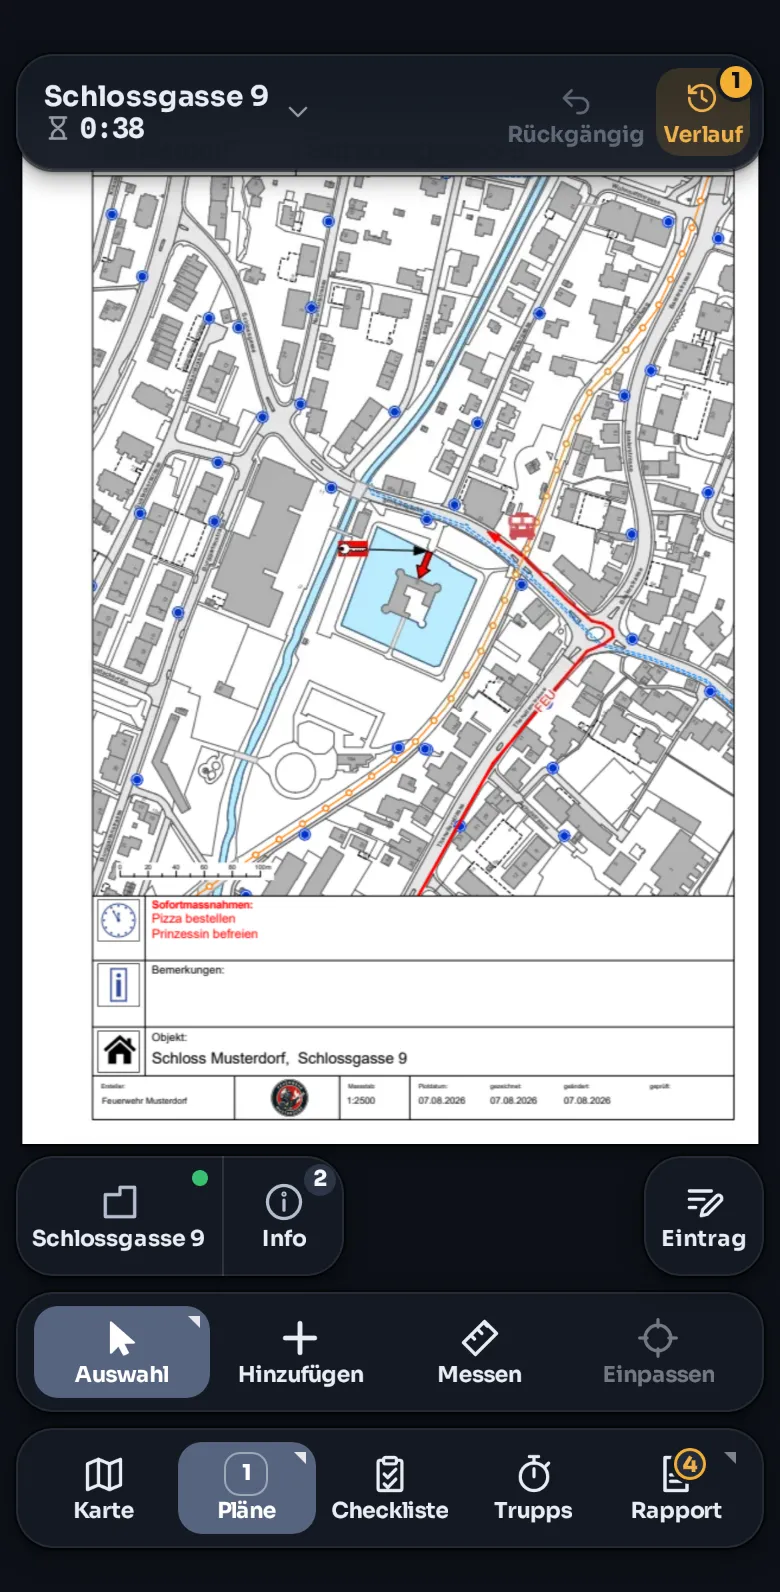
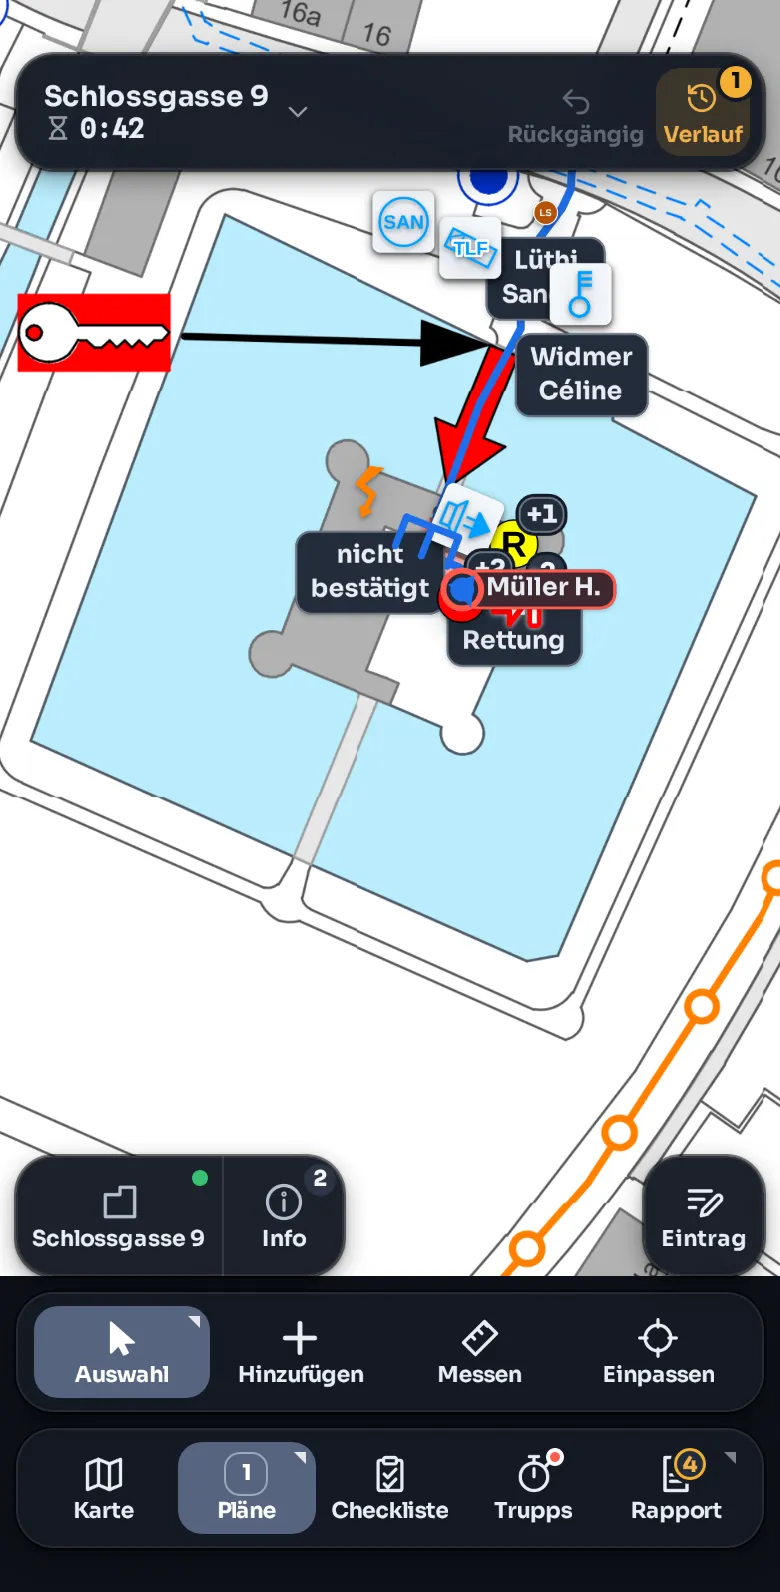
feat(demo): georeference the Schloss's Modul 1 so the plan carries the Karte's symbols
The landing page's «Ein Plan zum Draufzeichnen» showed an empty Modul 1 sheet.
The demo now seeds the sheet's georeference with the station plan calibration
(DEMO_PLAN_SCALES.georefByPlan, keyed by the Schloss's manifest id), so the
running Einsatz binds it on first open and every symbol on the Karte also
stands on the plan – the feature itself, on the demo's front page.

The four pairs are the moat's corners, read off the rendered sheet and off the
demo map, with the map's screen-to-WGS84 transform taken from markers at the
seed's known coordinates (residual 0.1 m): north-up within 0.2°, corners
within 1 m, scale within 2 % of the printed 1:2500. A test pins the key to an
object and module the manifest ships.

Landing page: chapter 3 shows that plan on iPad and iPhone, zoomed on the
castle; one bullet says it is georeferenced; a fourth Betrieb card says crew,
vehicles, plans, checklists and map layers are set up in your own admin area.

diff --git a/site/fr/index.html b/site/fr/index.html
@@ -511,23 +511,23 @@
         <p>Ouvrir le plan d’intervention, dessiner dessus, y placer les équipes, mesurer à l’échelle – avec les mêmes outils que sur la carte. La pile d’étages montre quelle équipe travaille à quel étage.</p>
         <ul class="checks">
           <li>Plans d’objet et d’intervention de votre propre corps</li>
+          <li>Géoréférencé : ce qui est sur la carte est aussi sur le plan</li>
           <li>Pile d’étages avec les équipes par étage</li>
-          <li>Points de mesure avec valeurs de gaz par pièce</li>
         </ul>
       </div>
       <div class="chap-img">
         <div class="dev dev-tab wide-only">
           <picture>
-          <source data-theme-dark media="(prefers-color-scheme: dark)" srcset="../shots/dark/tablet/gebaeude.webp">
+          <source data-theme-dark media="(prefers-color-scheme: dark)" srcset="../shots/dark/tablet/plan.webp">
           <script>document.currentScript.previousElementSibling.media = document.documentElement.dataset.theme === 'dark' ? 'all' : 'not all';</script>
-          <img src="../shots/tablet/gebaeude.webp" alt="Pile d’étages avec les équipes par étage ; sur le téléphone, le plan d’objet" width="1600" height="1090" loading="lazy" decoding="async">
+          <img src="../shots/tablet/plan.webp" alt="Plan d’objet (module 1) : les signes de la carte de situation figurent aussi sur le plan" width="1600" height="1090" loading="lazy" decoding="async">
         </picture>
         </div>
         <div class="dev dev-ph narrow-only">
           <picture>
           <source data-theme-dark media="(prefers-color-scheme: dark)" srcset="../shots/dark/phone/plan.webp">
           <script>document.currentScript.previousElementSibling.media = document.documentElement.dataset.theme === 'dark' ? 'all' : 'not all';</script>
-          <img src="../shots/phone/plan.webp" alt="Pile d’étages avec les équipes par étage ; sur le téléphone, le plan d’objet" width="780" height="1592" loading="lazy" decoding="async">
+          <img src="../shots/phone/plan.webp" alt="Plan d’objet (module 1) : les signes de la carte de situation figurent aussi sur le plan" width="780" height="1592" loading="lazy" decoding="async">
         </picture>
         </div>
       </div>
@@ -601,6 +601,10 @@
       <div class="own-card">
         <h3>Sans dépendance</h3>
         <p>Tout le code est ouvert : l’exploiter, l’adapter, le faire évoluer vous-mêmes.</p>
+      </div>
+      <div class="own-card">
+        <h3>Adapté à vous</h3>
+        <p>Votre effectif, vos véhicules, plans, check-lists et couches de carte se configurent dans votre propre espace d’administration – sans programmer.</p>
       </div>
     </div>
     <p class="own-link"><a href="https://github.com/feuerwehr-oberwil/kp-front/blob/main/docs/SETUP.md" target="_blank" rel="noopener">Guide pour l’exploiter vous-mêmes →</a></p>

diff --git a/site/rm/index.html b/site/rm/index.html
@@ -511,23 +511,23 @@
         <p>Avrir il plan d’acziun, dissegnar sin quel, plazzar gruppas e mesirar tenor scala – cun ils medems instruments sco sin la charta. La pigna da plauns mussa tge gruppa che lavura sin tge plaun.</p>
         <ul class="checks">
           <li>Plans d’object e d’acziun da voss corps da pumpiers</li>
+          <li>Georeferenzià: tge che stat sin la charta, stat er sin il plan</li>
           <li>Pigna da plauns cun las gruppas per plaun</li>
-          <li>Puncts da mesiraziun cun valurs da gas per stanza</li>
         </ul>
       </div>
       <div class="chap-img">
         <div class="dev dev-tab wide-only">
           <picture>
-          <source data-theme-dark media="(prefers-color-scheme: dark)" srcset="../shots/dark/tablet/gebaeude.webp">
+          <source data-theme-dark media="(prefers-color-scheme: dark)" srcset="../shots/dark/tablet/plan.webp">
           <script>document.currentScript.previousElementSibling.media = document.documentElement.dataset.theme === 'dark' ? 'all' : 'not all';</script>
-          <img src="../shots/tablet/gebaeude.webp" alt="Pigna da plauns cun las gruppas per plaun; sin il telefonin il plan d’object" width="1600" height="1090" loading="lazy" decoding="async">
+          <img src="../shots/tablet/plan.webp" alt="Plan d’object (modul 1): ils segns da la charta da situaziun stattan er sin il plan" width="1600" height="1090" loading="lazy" decoding="async">
         </picture>
         </div>
         <div class="dev dev-ph narrow-only">
           <picture>
           <source data-theme-dark media="(prefers-color-scheme: dark)" srcset="../shots/dark/phone/plan.webp">
           <script>document.currentScript.previousElementSibling.media = document.documentElement.dataset.theme === 'dark' ? 'all' : 'not all';</script>
-          <img src="../shots/phone/plan.webp" alt="Pigna da plauns cun las gruppas per plaun; sin il telefonin il plan d’object" width="780" height="1592" loading="lazy" decoding="async">
+          <img src="../shots/phone/plan.webp" alt="Plan d’object (modul 1): ils segns da la charta da situaziun stattan er sin il plan" width="780" height="1592" loading="lazy" decoding="async">
         </picture>
         </div>
       </div>
@@ -601,6 +601,10 @@
       <div class="own-card">
         <h3>Senza dependenza</h3>
         <p>L’entir code è avert: manar, adattar e sviluppar vinavant sezs.</p>
+      </div>
+      <div class="own-card">
+        <h3>Fatg per vus</h3>
+        <p>Voss persunal, vehichels, plans, glistas da controlla e nivels da charta endrizzais vus en voss agen champ d’administraziun – senza programmar.</p>
       </div>
     </div>
     <p class="own-link"><a href="https://github.com/feuerwehr-oberwil/kp-front/blob/main/docs/SETUP.md" target="_blank" rel="noopener">Instrucziun per manar sez →</a></p>

diff --git a/site/it/index.html b/site/it/index.html
@@ -511,23 +511,23 @@
         <p>Aprire il piano d’intervento, disegnarci sopra, posizionare le squadre, misurare in scala – con gli stessi strumenti della carta. La pila dei piani mostra quale squadra lavora a quale piano.</p>
         <ul class="checks">
           <li>Piani d’oggetto e d’intervento del proprio corpo</li>
+          <li>Georeferenziato: ciò che sta sulla carta sta anche sul piano</li>
           <li>Pila dei piani con le squadre per piano</li>
-          <li>Punti di misura con valori dei gas per locale</li>
         </ul>
       </div>
       <div class="chap-img">
         <div class="dev dev-tab wide-only">
           <picture>
-          <source data-theme-dark media="(prefers-color-scheme: dark)" srcset="../shots/dark/tablet/gebaeude.webp">
+          <source data-theme-dark media="(prefers-color-scheme: dark)" srcset="../shots/dark/tablet/plan.webp">
           <script>document.currentScript.previousElementSibling.media = document.documentElement.dataset.theme === 'dark' ? 'all' : 'not all';</script>
-          <img src="../shots/tablet/gebaeude.webp" alt="Pila dei piani con le squadre per piano; sul telefono il piano d’oggetto" width="1600" height="1090" loading="lazy" decoding="async">
+          <img src="../shots/tablet/plan.webp" alt="Piano d’oggetto (modulo 1): i simboli della carta della situazione stanno anche sul piano" width="1600" height="1090" loading="lazy" decoding="async">
         </picture>
         </div>
         <div class="dev dev-ph narrow-only">
           <picture>
           <source data-theme-dark media="(prefers-color-scheme: dark)" srcset="../shots/dark/phone/plan.webp">
           <script>document.currentScript.previousElementSibling.media = document.documentElement.dataset.theme === 'dark' ? 'all' : 'not all';</script>
-          <img src="../shots/phone/plan.webp" alt="Pila dei piani con le squadre per piano; sul telefono il piano d’oggetto" width="780" height="1592" loading="lazy" decoding="async">
+          <img src="../shots/phone/plan.webp" alt="Piano d’oggetto (modulo 1): i simboli della carta della situazione stanno anche sul piano" width="780" height="1592" loading="lazy" decoding="async">
         </picture>
         </div>
       </div>
@@ -601,6 +601,10 @@
       <div class="own-card">
         <h3>Senza vincoli</h3>
         <p>Tutto il codice è aperto: gestirlo, adattarlo, svilupparlo da voi.</p>
+      </div>
+      <div class="own-card">
+        <h3>Su misura per voi</h3>
+        <p>Uomini, veicoli, piani, liste di controllo e livelli della carta si configurano nella vostra area di amministrazione – senza programmare.</p>
       </div>
     </div>
     <p class="own-link"><a href="https://github.com/feuerwehr-oberwil/kp-front/blob/main/docs/SETUP.md" target="_blank" rel="noopener">Guida per gestirlo da voi →</a></p>

diff --git a/site/index.html b/site/index.html
@@ -507,23 +507,23 @@
         <p>Einsatzplan öffnen, drauf zeichnen, Trupps platzieren, massstabsgetreu messen – mit denselben Werkzeugen wie auf der Karte. Im Geschossstapel seht ihr, welcher Trupp auf welchem Stock arbeitet.</p>
         <ul class="checks">
           <li>Objekt- und Einsatzpläne der eigenen Feuerwehr</li>
+          <li>Georeferenziert: was auf der Karte steht, steht auch auf dem Plan</li>
           <li>Geschossstapel mit Trupps pro Stock</li>
-          <li>Messpunkte mit Gaswerten pro Raum</li>
         </ul>
       </div>
       <div class="chap-img">
         <div class="dev dev-tab wide-only">
           <picture>
-          <source data-theme-dark media="(prefers-color-scheme: dark)" srcset="shots/dark/tablet/gebaeude.webp">
+          <source data-theme-dark media="(prefers-color-scheme: dark)" srcset="shots/dark/tablet/plan.webp">
           <script>document.currentScript.previousElementSibling.media = document.documentElement.dataset.theme === 'dark' ? 'all' : 'not all';</script>
-          <img src="shots/tablet/gebaeude.webp" alt="Geschossstapel mit den Trupps pro Stockwerk; auf dem Handy der Objektplan" width="1600" height="1090" loading="lazy" decoding="async">
+          <img src="shots/tablet/plan.webp" alt="Objektplan Modul 1: die Zeichen der Lagekarte stehen auch auf dem Plan" width="1600" height="1090" loading="lazy" decoding="async">
         </picture>
         </div>
         <div class="dev dev-ph narrow-only">
           <picture>
           <source data-theme-dark media="(prefers-color-scheme: dark)" srcset="shots/dark/phone/plan.webp">
           <script>document.currentScript.previousElementSibling.media = document.documentElement.dataset.theme === 'dark' ? 'all' : 'not all';</script>
-          <img src="shots/phone/plan.webp" alt="Geschossstapel mit den Trupps pro Stockwerk; auf dem Handy der Objektplan" width="780" height="1592" loading="lazy" decoding="async">
+          <img src="shots/phone/plan.webp" alt="Objektplan Modul 1: die Zeichen der Lagekarte stehen auch auf dem Plan" width="780" height="1592" loading="lazy" decoding="async">
         </picture>
         </div>
       </div>
@@ -597,6 +597,10 @@
       <div class="own-card">
         <h3>Ohne Bindung</h3>
         <p>Der ganze Code liegt offen: selbst betreiben, selbst anpassen, selbst weiterentwickeln.</p>
+      </div>
+      <div class="own-card">
+        <h3>Auf euch zugeschnitten</h3>
+        <p>Eure Mannschaft, Fahrzeuge, Pläne, Checklisten und Karten-Ebenen richtet ihr im eigenen Verwaltungsbereich ein – ohne Programmieren.</p>
       </div>
     </div>
     <p class="own-link"><a href="https://github.com/feuerwehr-oberwil/kp-front/blob/main/docs/SETUP.md" target="_blank" rel="noopener">Anleitung zum Selbstbetreiben →</a></p>

diff --git a/site/en/index.html b/site/en/index.html
@@ -508,23 +508,23 @@
         <p>Open the pre-incident plan, draw on it, place teams, measure to scale – with the same tools as on the map. The floor stack shows which team works on which storey.</p>
         <ul class="checks">
           <li>Building and pre-incident plans of your own brigade</li>
+          <li>Georeferenced: what is on the map is on the plan too</li>
           <li>Floor stack with the teams per storey</li>
-          <li>Measuring points with gas readings per room</li>
         </ul>
       </div>
       <div class="chap-img">
         <div class="dev dev-tab wide-only">
           <picture>
-          <source data-theme-dark media="(prefers-color-scheme: dark)" srcset="../shots/dark/tablet/gebaeude.webp">
+          <source data-theme-dark media="(prefers-color-scheme: dark)" srcset="../shots/dark/tablet/plan.webp">
           <script>document.currentScript.previousElementSibling.media = document.documentElement.dataset.theme === 'dark' ? 'all' : 'not all';</script>
-          <img src="../shots/tablet/gebaeude.webp" alt="Floor stack with the teams per storey; on the phone, the building plan" width="1600" height="1090" loading="lazy" decoding="async">
+          <img src="../shots/tablet/plan.webp" alt="Building plan (Modul 1): the situation map’s symbols stand on the plan too" width="1600" height="1090" loading="lazy" decoding="async">
         </picture>
         </div>
         <div class="dev dev-ph narrow-only">
           <picture>
           <source data-theme-dark media="(prefers-color-scheme: dark)" srcset="../shots/dark/phone/plan.webp">
           <script>document.currentScript.previousElementSibling.media = document.documentElement.dataset.theme === 'dark' ? 'all' : 'not all';</script>
-          <img src="../shots/phone/plan.webp" alt="Floor stack with the teams per storey; on the phone, the building plan" width="780" height="1592" loading="lazy" decoding="async">
+          <img src="../shots/phone/plan.webp" alt="Building plan (Modul 1): the situation map’s symbols stand on the plan too" width="780" height="1592" loading="lazy" decoding="async">
         </picture>
         </div>
       </div>
@@ -598,6 +598,10 @@
       <div class="own-card">
         <h3>No lock-in</h3>
         <p>All of the code is open: run it, adapt it, develop it further yourself.</p>
+      </div>
+      <div class="own-card">
+        <h3>Made to fit you</h3>
+        <p>Your crew, vehicles, plans, checklists and map layers are set up in your own admin area – no programming needed.</p>
       </div>
     </div>
     <p class="own-link"><a href="https://github.com/feuerwehr-oberwil/kp-front/blob/main/docs/SETUP.md" target="_blank" rel="noopener">Guide to running it yourself →</a></p>

diff --git a/site/landing.css b/site/landing.css
@@ -885,7 +885,7 @@ section.chap:nth-of-type(even) .chap-txt { order: 2; }
 }
 
 /* Betrieb: three short answers to «what does it cost, where does it run, are we bound?». */
-.own { display: grid; grid-template-columns: repeat(3, 1fr); gap: 16px; margin-top: 28px; }
+.own { display: grid; grid-template-columns: repeat(4, 1fr); gap: 16px; margin-top: 28px; }
 .own-card {
   background: var(--surface); border: 1px solid var(--line); border-radius: var(--r-surface);
   padding: 20px 22px;
@@ -942,7 +942,8 @@ details.way form { margin-top: 6px; padding-left: 58px; max-width: 640px; }
   section.chap, .chap:not(:has(.dev-tab)) { grid-template-columns: 1fr; gap: 28px; padding-top: 56px; padding-bottom: 56px; }
   section.chap:nth-of-type(even) .chap-txt { order: 0; }
   .chap .dev-ph { max-width: 260px; }
-  .own, .ways { grid-template-columns: 1fr; }
+  .own { grid-template-columns: 1fr 1fr; }
+  .ways { grid-template-columns: 1fr; }
   details.way[open] { order: 0; }
   details.way form { padding-left: 0; }
   .split { grid-template-columns: 1fr; gap: 20px; }
@@ -957,4 +958,5 @@ details.way form { margin-top: 6px; padding-left: 58px; max-width: 640px; }
   .wide-only { display: none; }
   .narrow-only { display: block; }
   .sib { flex-direction: column; align-items: flex-start; }
+  .own { grid-template-columns: 1fr; }
 }

diff --git a/backend/app/demo_reset.py b/backend/app/demo_reset.py
@@ -68,6 +68,10 @@ ZURICH = ZoneInfo("Europe/Zurich")
 # exactly the "a plan measures out of the box" case the station layer exists for.
 # Not written by `admin_config load`, which only touches config_json, so the reset script's
 # step 2 cannot wipe what step 1 writes here.
+#: Schloss Musterdorf's id in examples/demo-data/objects.manifest.json – the reset re-pushes the
+#: objects with their manifest ids, so a station document keyed by it survives every reset.
+DEMO_SCHLOSS_OBJECT_ID = "d0000000-0000-5000-8000-00000000b077"
+
 DEMO_PLAN_SCALES = {
     "default": None,
     "byPlan": {
@@ -77,6 +81,39 @@ DEMO_PLAN_SCALES = {
         # in the workspace fixture (same 14.97 m/u this entry used to pin by hand). A seeded
         # calibration here would sit as a decoy under the derived one — that decoy is exactly
         # how the demo once showed «Ref. 10 m» instead of «Ref. auto».
+    },
+    # The Schloss's Modul 1 sheet, georeferenced: the Karte's symbols stand on the plan too, and
+    # what is drawn on the plan shows on the Karte – «ein Objekt, auf beiden Flächen». Keyed by
+    # the object's sheet (useObjectPlans · objectPlanGeorefKey); the demo Einsatz's plan binding
+    # takes it over when it first opens the sheet (incidentPlanBindings · inheritPlanBinding).
+    # The four pairs are the moat's corners, read off the rendered sheet and off the demo map
+    # (19.11.2026): north-up within 0.2°, corners within 1 m, scale within 2 % of the printed
+    # 1:2500. They are landmarks an operator could have tapped, hence `gesetzt`.
+    "georefByPlan": {
+        f"object:{DEMO_SCHLOSS_OBJECT_ID}:plan:modul1": {
+            "pairs": [
+                {
+                    "plan": {"x": 0.482675, "y": 0.406838},
+                    "lngLat": {"lng": 7.56997472, "lat": 47.52416195},
+                    "kind": "gesetzt",
+                },
+                {
+                    "plan": {"x": 0.614827, "y": 0.45641},
+                    "lngLat": {"lng": 7.57091571, "lat": 47.52382174},
+                    "kind": "gesetzt",
+                },
+                {
+                    "plan": {"x": 0.565673, "y": 0.538462},
+                    "lngLat": {"lng": 7.57056184, "lat": 47.52326357},
+                    "kind": "gesetzt",
+                },
+                {
+                    "plan": {"x": 0.434327, "y": 0.499715},
+                    "lngLat": {"lng": 7.56962618, "lat": 47.52352999},
+                    "kind": "gesetzt",
+                },
+            ],
+        },
     },
 }
 

diff --git a/backend/tests/test_demo_reset.py b/backend/tests/test_demo_reset.py
@@ -630,3 +630,20 @@ def test_the_demo_report_links_are_https():
     links = cfg["report"]["links"]
     assert links and all(link["url"].startswith("https://") for link in links)
     assert len({link["id"] for link in links}) == len(links)
+
+
+def test_the_seeded_plan_georeference_validates_and_names_a_shipped_object():
+    """The Schloss's Modul 1 georeference is keyed by its manifest id. The reset re-pushes the
+    objects with those ids – if the manifest's id moved, the key would silently point at no
+    sheet and the plan would show none of the Karte's symbols."""
+    from app.api.plan_scales import PlanScales
+
+    doc = PlanScales.model_validate(dr.DEMO_PLAN_SCALES)
+    manifest = json.loads(
+        (Path(__file__).resolve().parents[2] / "examples/demo-data/objects.manifest.json").read_text()
+    )
+    shipped = {o["id"]: {p["module"] for p in o.get("plans", [])} for o in manifest["objects"]}
+    for key, georef in doc.georefByPlan.items():
+        _, object_id, _, plan_id = key.split(":")
+        assert plan_id in shipped.get(object_id, set()), key
+        assert len(georef.pairs) >= 2
